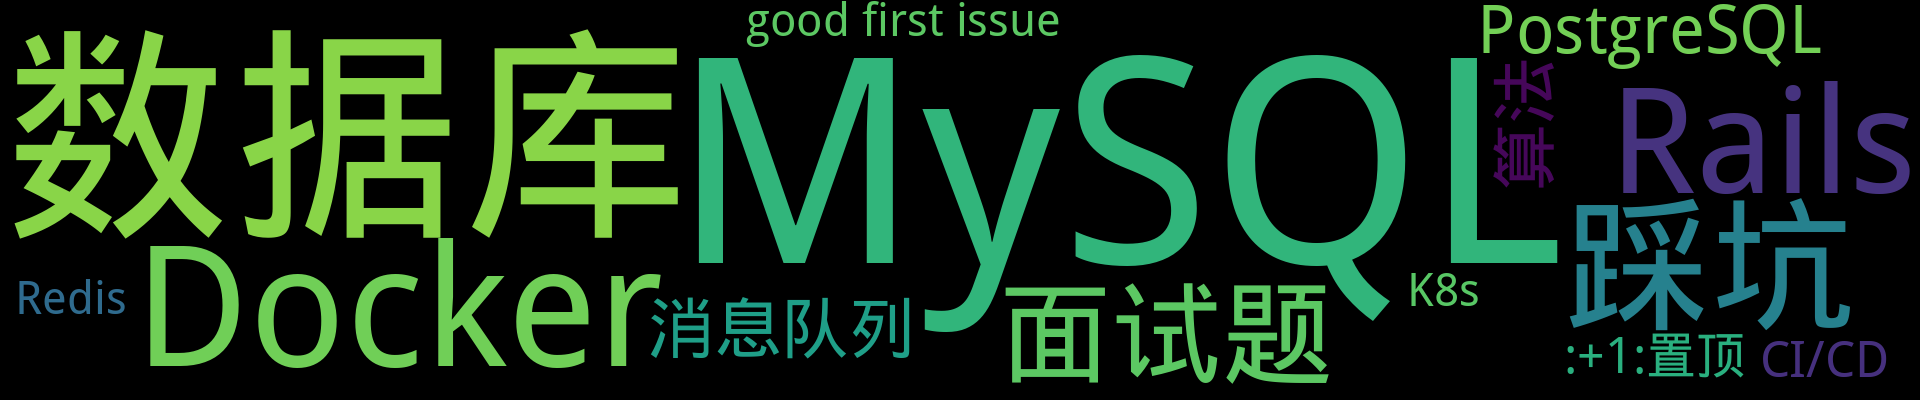
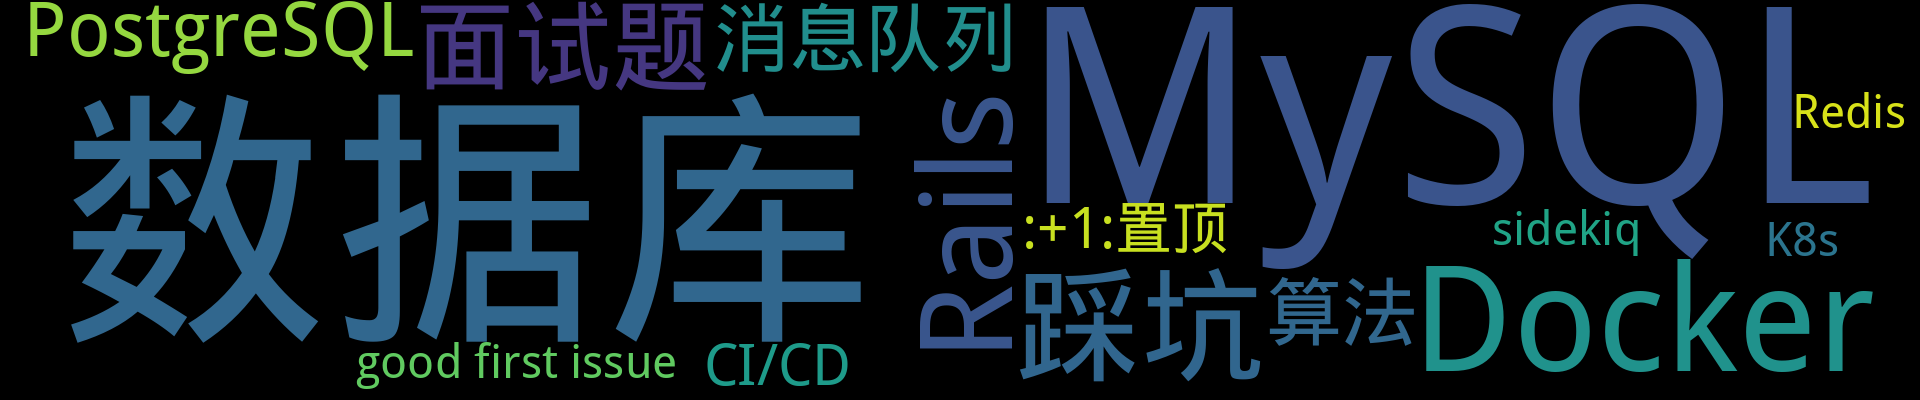
Update from Github Action

diff --git a/README.md b/README.md
@@ -1,9 +1,9 @@
 
 
 <p align='center'>
-    <img src="https://badgen.net/badge/labels/17"/>
+    <img src="https://badgen.net/badge/labels/18"/>
     <img src="https://badgen.net/github/issues/iamtomas/ghiblog"/>
-    <img src="https://badgen.net/badge/last-commit/2022-03-24 16:52:15"/>
+    <img src="https://badgen.net/badge/last-commit/2022-03-30 07:50:20"/>
     <img src="https://badgen.net/github/forks/iamtomas/ghiblog"/>
     <img src="https://badgen.net/github/stars/iamtomas/ghiblog"/>
     <img src="https://badgen.net/github/watchers/iamtomas/ghiblog"/>
@@ -20,6 +20,21 @@
 ## 置顶 :thumbsup: 
 - [基于Github Action自动生成并更新GitHub Issue博客的ReadMe](https://github.com/iamtomas/note/issues/1)  <sup>0 :speech_balloon:</sup>  	 
 ## 最新 :new: 
+
+#### [Sidekiq](https://github.com/iamtomas/note/issues/33) <sup>0 :speech_balloon:</sup> 	 2022-03-30 07:49:54
+
+:label: : [sidekiq](https://github.com/iamtomas/ghiblog/labels/sidekiq)
+
+定义：用于处理后台任务且依赖于 Redis 的工具
+
+快速使用：
+
+
+
+[更多>>>](https://github.com/iamtomas/note/issues/33)
+
+---
+
 
 #### [Kafka](https://github.com/iamtomas/note/issues/32) <sup>0 :speech_balloon:</sup> 	 2022-03-24 16:23:17
 
@@ -73,19 +88,6 @@ macOS Big Sur 11.6
 
 
 [更多>>>](https://github.com/iamtomas/note/issues/29)
-
----
-
-
-#### [数据库设计大全](https://github.com/iamtomas/note/issues/28) <sup>0 :speech_balloon:</sup> 	 2022-02-20 13:28:31
-
-:label: : [MySQL](https://github.com/iamtomas/ghiblog/labels/MySQL), [数据库](https://github.com/iamtomas/ghiblog/labels/%E6%95%B0%E6%8D%AE%E5%BA%93)
-
-表设计：http://open.yesapi.cn/list.html
-
-绘制 ER 图工具：https://dbdiagram.io/home
-
-[更多>>>](https://github.com/iamtomas/note/issues/28)
 
 ---
 
@@ -184,6 +186,14 @@ macOS Big Sur 11.6
 <summary>Redis	<sup>1:newspaper:</sup></summary>
 
 - [Redis零散知识笔记](https://github.com/iamtomas/note/issues/15)  <sup>0 :speech_balloon:</sup>  	 
+
+
+</details>
+
+<details>
+<summary>sidekiq	<sup>1:newspaper:</sup></summary>
+
+- [Sidekiq](https://github.com/iamtomas/note/issues/33)  <sup>0 :speech_balloon:</sup>  	 
 
 
 </details>
